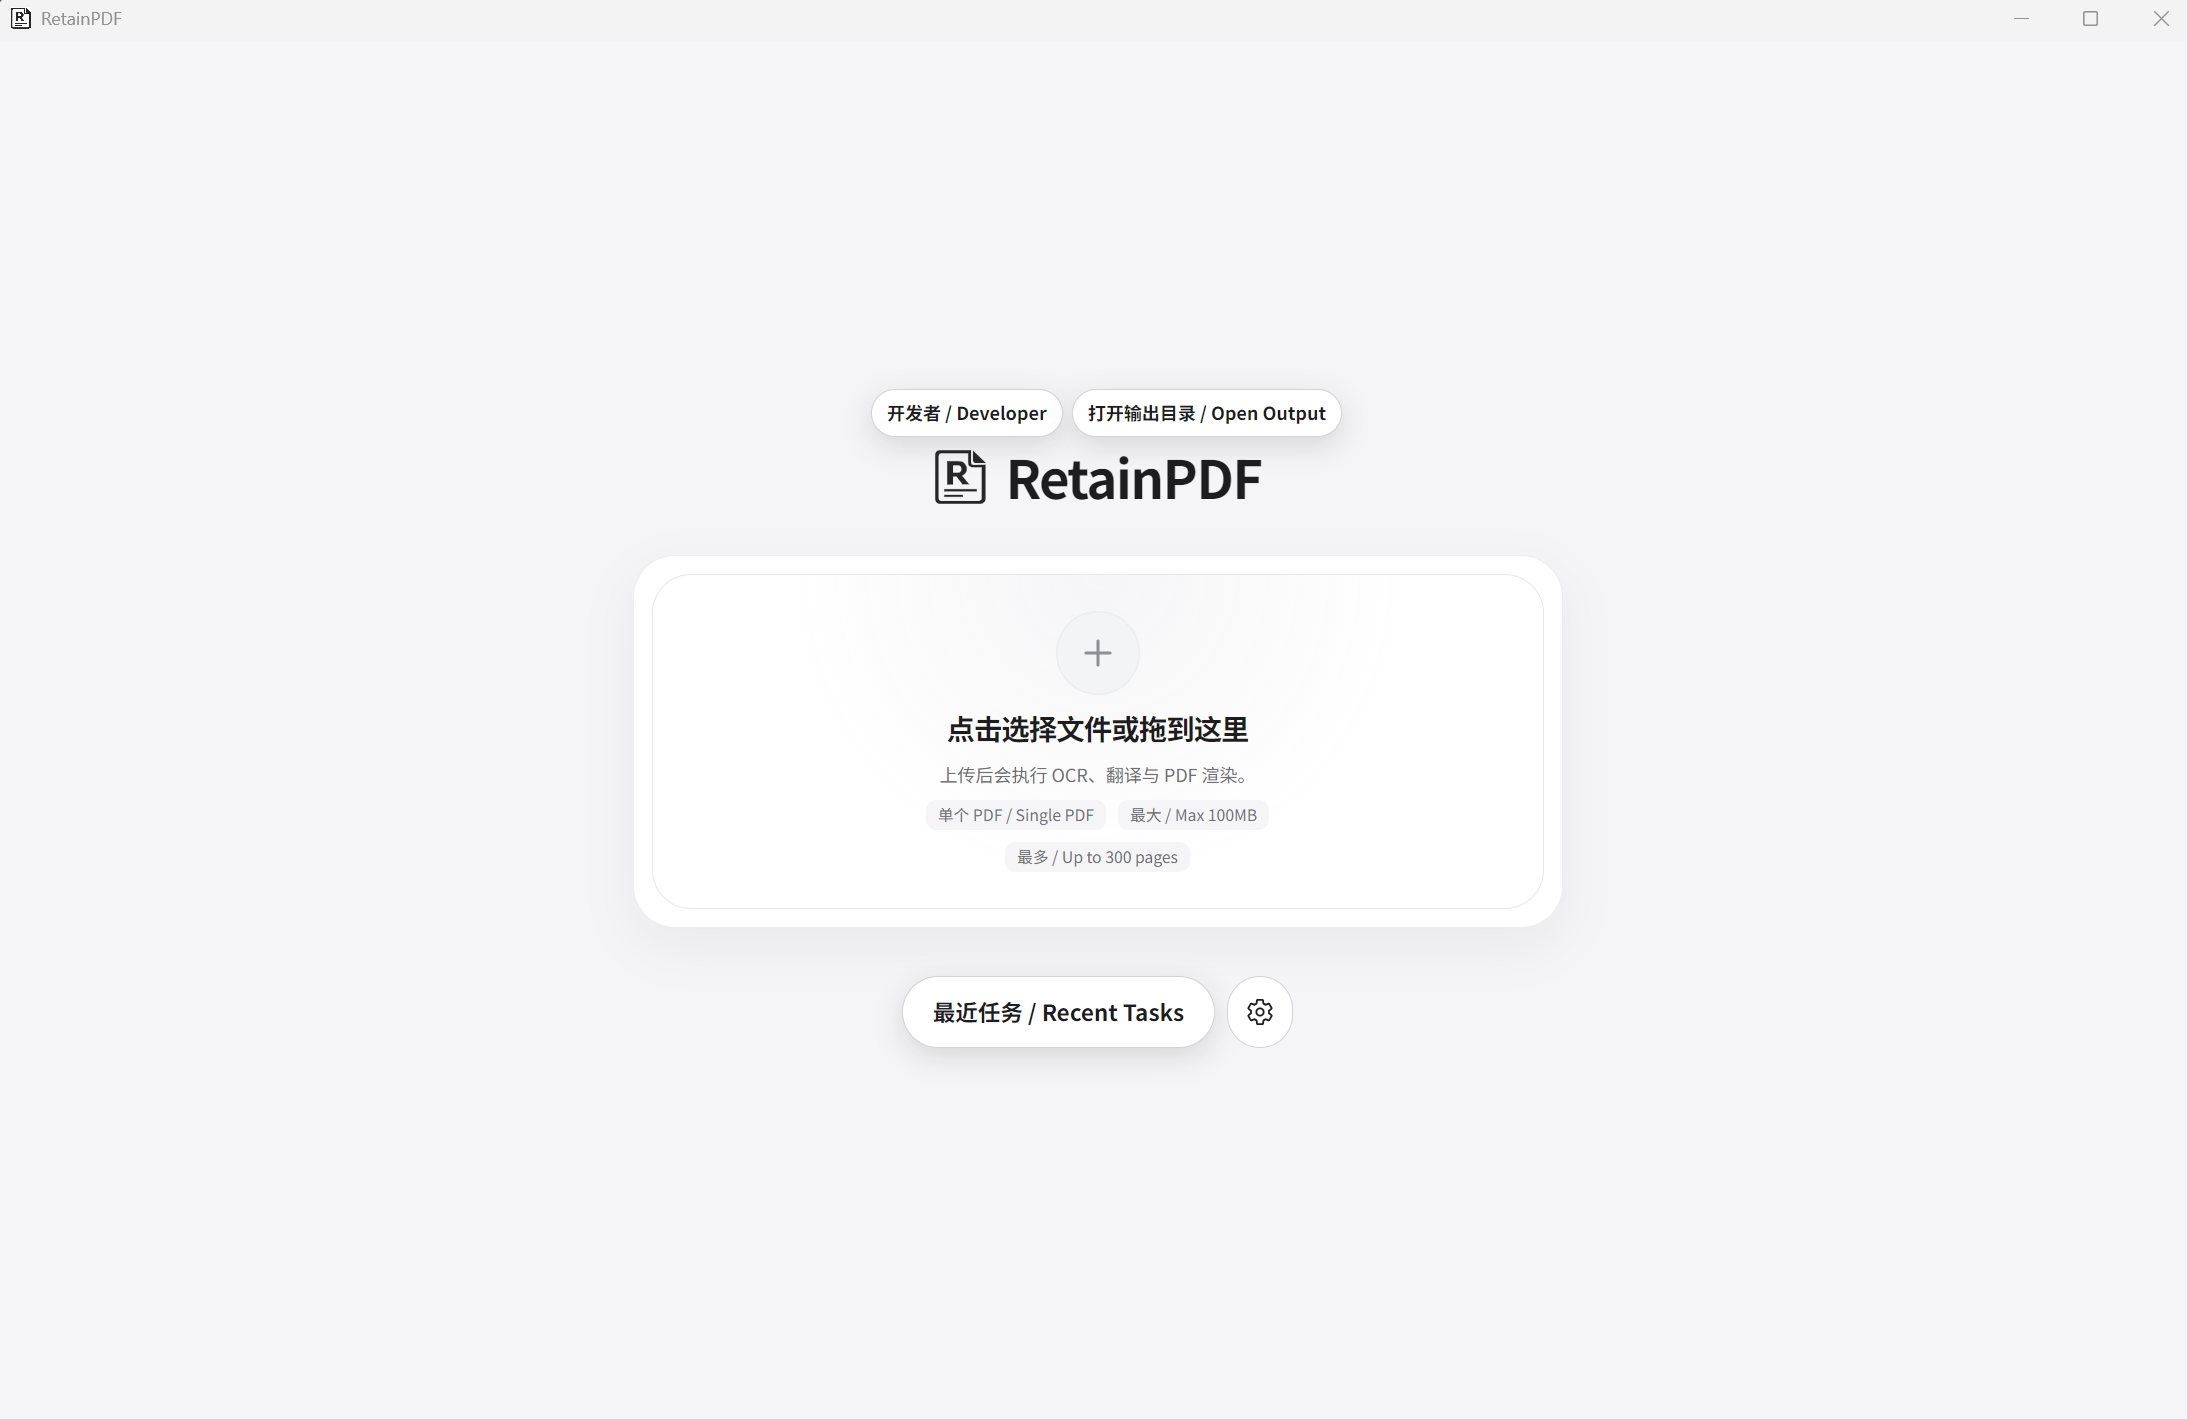
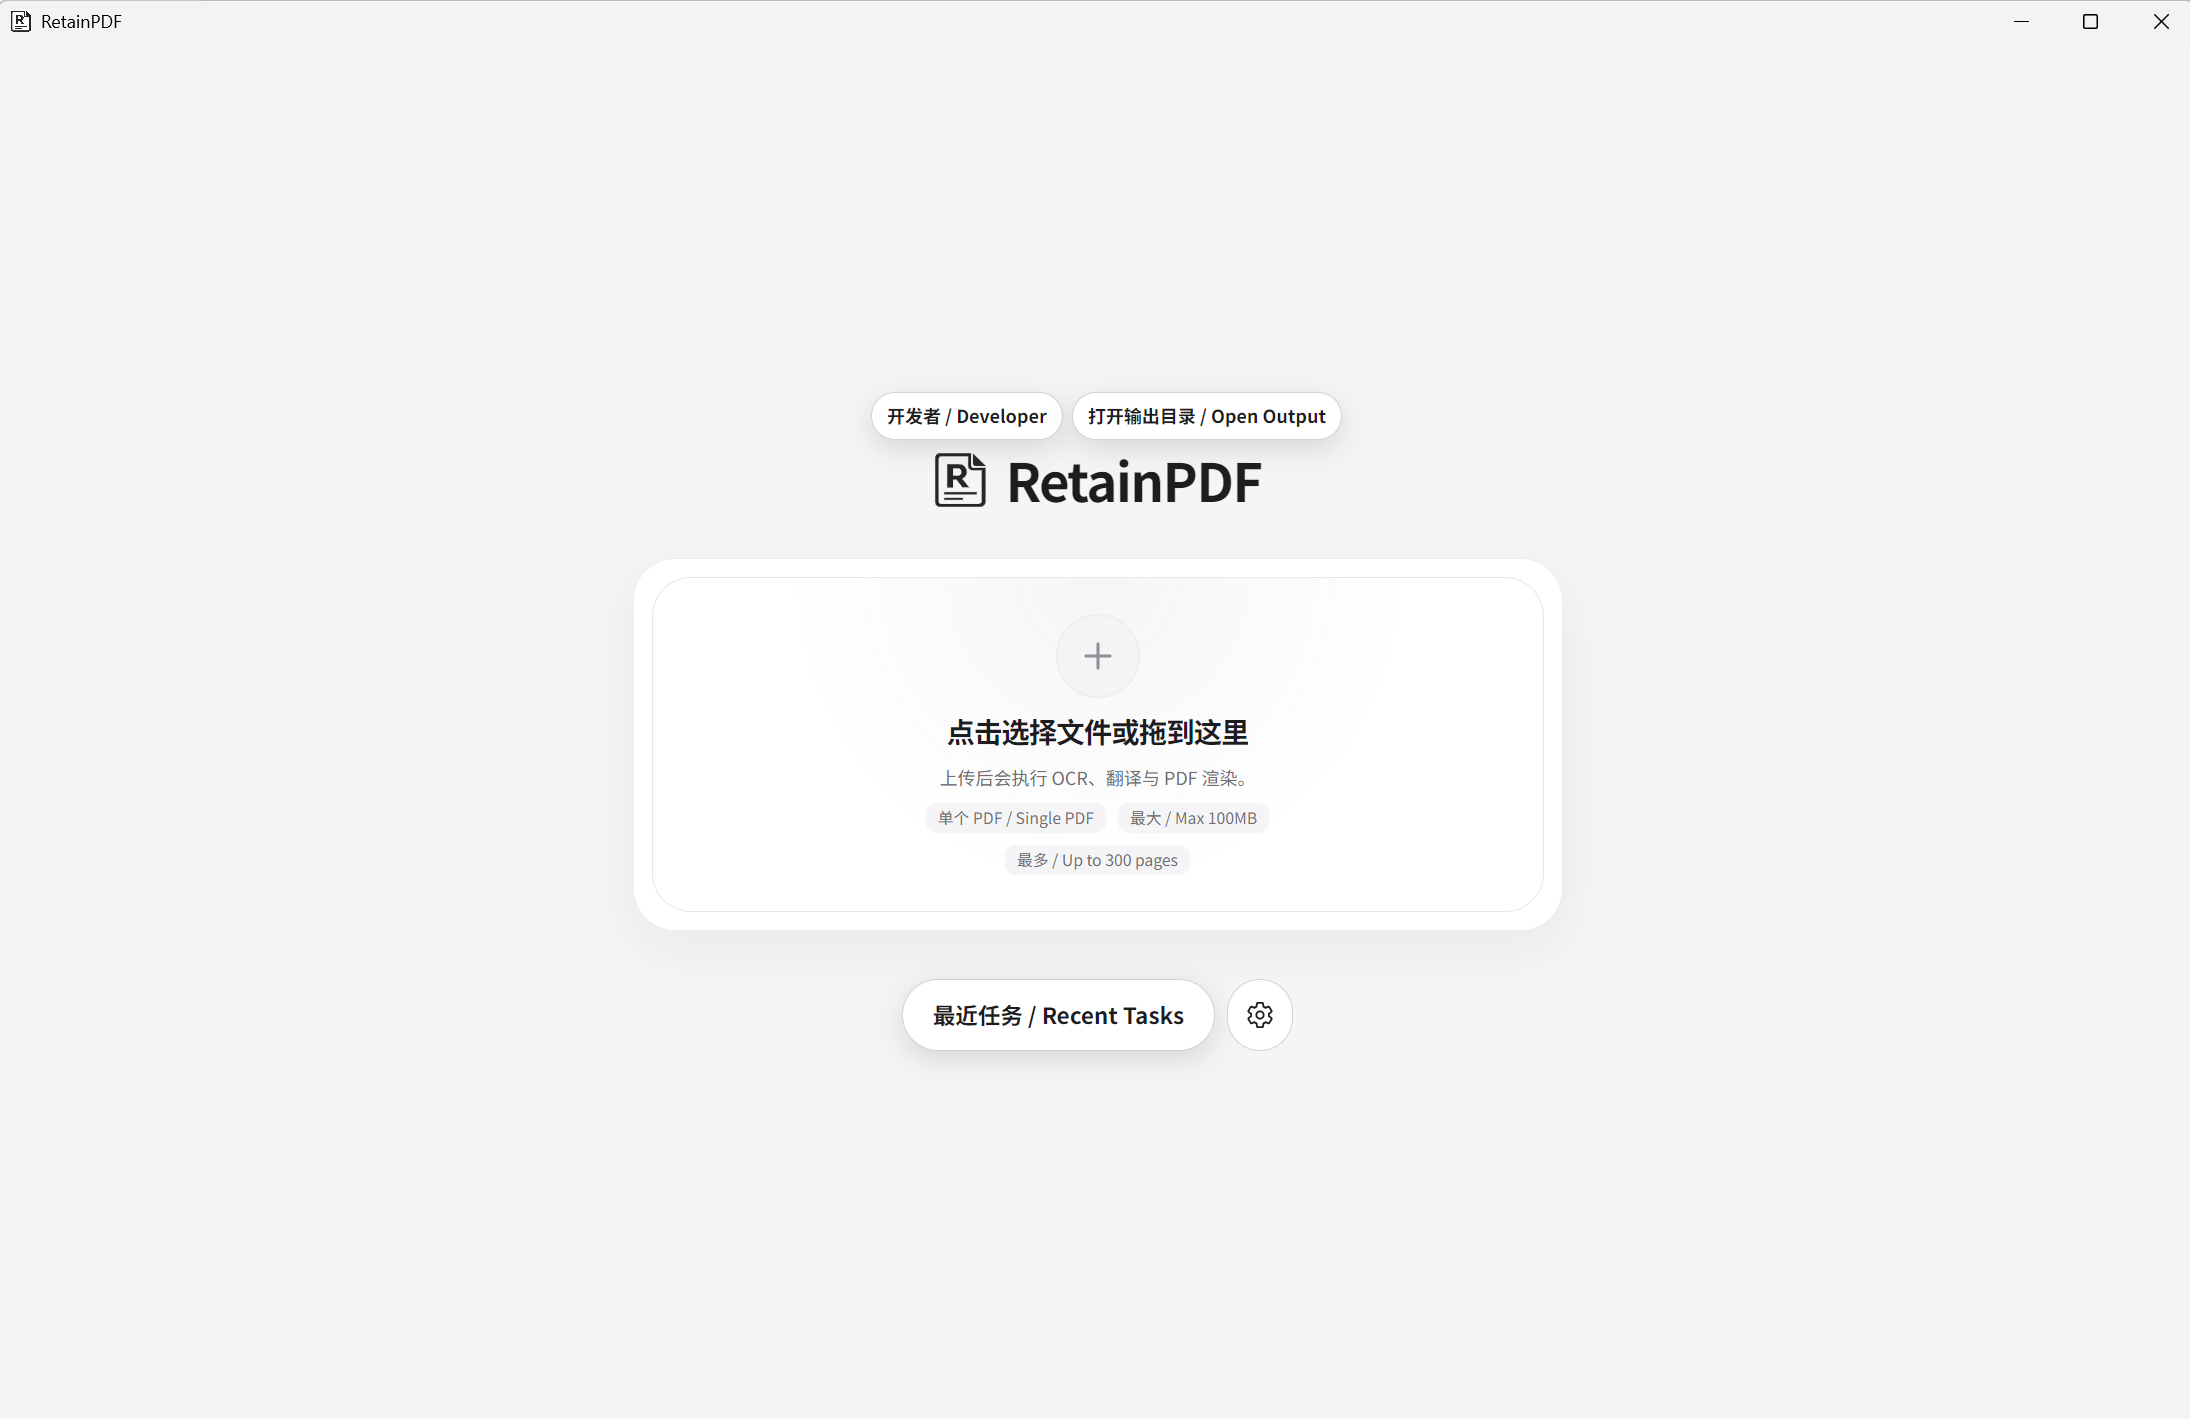
docs: 更新 README v5.2.6 + 更新主界面截图

diff --git a/README.md b/README.md
@@ -10,21 +10,21 @@
 
 ## 相比原版的核心改进 / Key Improvements over Original
 
-| 项目 | 原版 | 本版 v5.2.2 |
+| 项目 | 原版 | 本版 v5.2.6 |
 |------|------|------------|
-| OCR 引擎 | PaddleOCR（强制绑定） | MinerU + PaddleOCR 双引擎自由切换 |
-| 海外网络 | 中国大陆以外完全无法使用 | MinerU 模式全球可用，无需 VPN |
-| 白底遮盖 | 硬编码关闭，英文原文透底 | 已修复，动态 outset 精确遮盖 |
-| 信头/页脚 | 全部送翻译，版面混乱 | 智能区域过滤，仅翻译正文 |
-| 翻译方向 | 单向（英译中） | 四方向：英↔中、英→斯瓦希里语、斯瓦希里语→中文 |
-| 安装包体积 | 臃肿 | Windows 231MB / macOS 283MB |
-| 适用场景 | 中国大陆 VPN 环境 | 全球可用，尤其适合东非工程现场 |
+| OCR 引擎 | PaddleOCR | MinerU + PaddleOCR 双引擎自由切换 |
+| 翻译方向 | 英译中 | 四方向：英↔中、英→斯瓦希里语、斯瓦希里语→中文 |
+| 东非现场适配 | 通用设计 | 专为坦桑尼亚等东非工程现场优化 |
+| 双语界面 | 中文界面 | 中英双语界面，国际团队均可使用 |
+| 白底遮盖 | 标准渲染 | 动态 outset 精确遮盖，还原更干净 |
+| 强制 OCR | 混合模式 | 所有 PDF 强制走 OCR，扫描件无遗漏 |
+| 安装包 | 标准 | Windows 231MB / macOS 283MB |
 
 ---
 
 ## 下载安装 / Download & Install
 
-前往 [Releases 页面](https://github.com/he55180/retain-pdf/releases) 下载最新版本 v5.2.2：
+前往 [Releases 页面](https://github.com/he55180/retain-pdf/releases) 下载最新版本 v5.2.6：
 
 ```
 Windows:  RetainPDF-Windows-5.2.2-Setup.exe   (231 MB)
@@ -32,6 +32,10 @@ macOS:    RetainPDF-Mac-5.2.2.dmg             (283 MB)
 ```
 
 双击安装，按提示完成即可。无需安装 Python、Node.js 等任何依赖。
+
+---
+
+![RetainPDF 主界面](docs/screenshot-main.png)
 
 ---
 
@@ -61,6 +65,8 @@ macOS:    RetainPDF-Mac-5.2.2.dmg             (283 MB)
 1. 点击上传区，选择 PDF 文件（最大 100MB，建议单次不超过 10 页）
 2. 点击 **全书翻译** 或 **分页翻译**
 3. 等待完成，下载输出文件
+
+> 单文件限制：最大 100MB，最多 300 页
 
 ---
 
@@ -122,7 +128,7 @@ Requirements:
 ## 技术架构 / Technical Stack
 
 ```
-RetainPDF v5.2.2
+RetainPDF v5.2.6
 ├── Electron Shell          # 跨平台桌面应用
 ├── Rust API (Axum)         # 后端任务编排
 ├── Python Pipeline         # OCR / 翻译 / 渲染
@@ -139,11 +145,13 @@ RetainPDF v5.2.2
 
 | 版本 | 主要改动 |
 |------|---------|
+| v5.2.6 | 清理死代码，架构精简 |
+| v5.2.5 | 强制所有 PDF 走 OCR；完全删除区域过滤，正文翻译无遗漏 |
+| v5.2.3 | 统一三份源码副本；测试全绿 20/20 |
 | v5.2.2 | 修复中译英方向首页正文被误过滤问题 |
-| v5.2.1 | 修复英译中第二页正文被误过滤；补全 macOS 构建；优化上传区 UI |
-| v5.2.0 | 信头/页脚区域智能跳过翻译；签名区白底加厚；并发优化 |
-| v5.1.2 | Cover rect 白底遮盖修复；outset 1.5pt 精确遮盖 |
-| v5.1.0 | 回退至双云端引擎架构（PaddleOCR + MinerU），安装包瘦身至 231MB |
+| v5.2.1 | 修复第二页正文被误过滤；补全 macOS 构建；优化上传区 UI |
+| v5.1.2 | Cover rect 白底遮盖修复；outset 精确遮盖 |
+| v5.1.0 | 回退至双云端引擎架构，安装包精简 |
 | v4.3.x | 集成 Docling 离线引擎（后因体积/性能问题回退） |
 | v4.1.3 | 首个发布版：MinerU 双引擎支持，绕过百度强制验证 |
 
